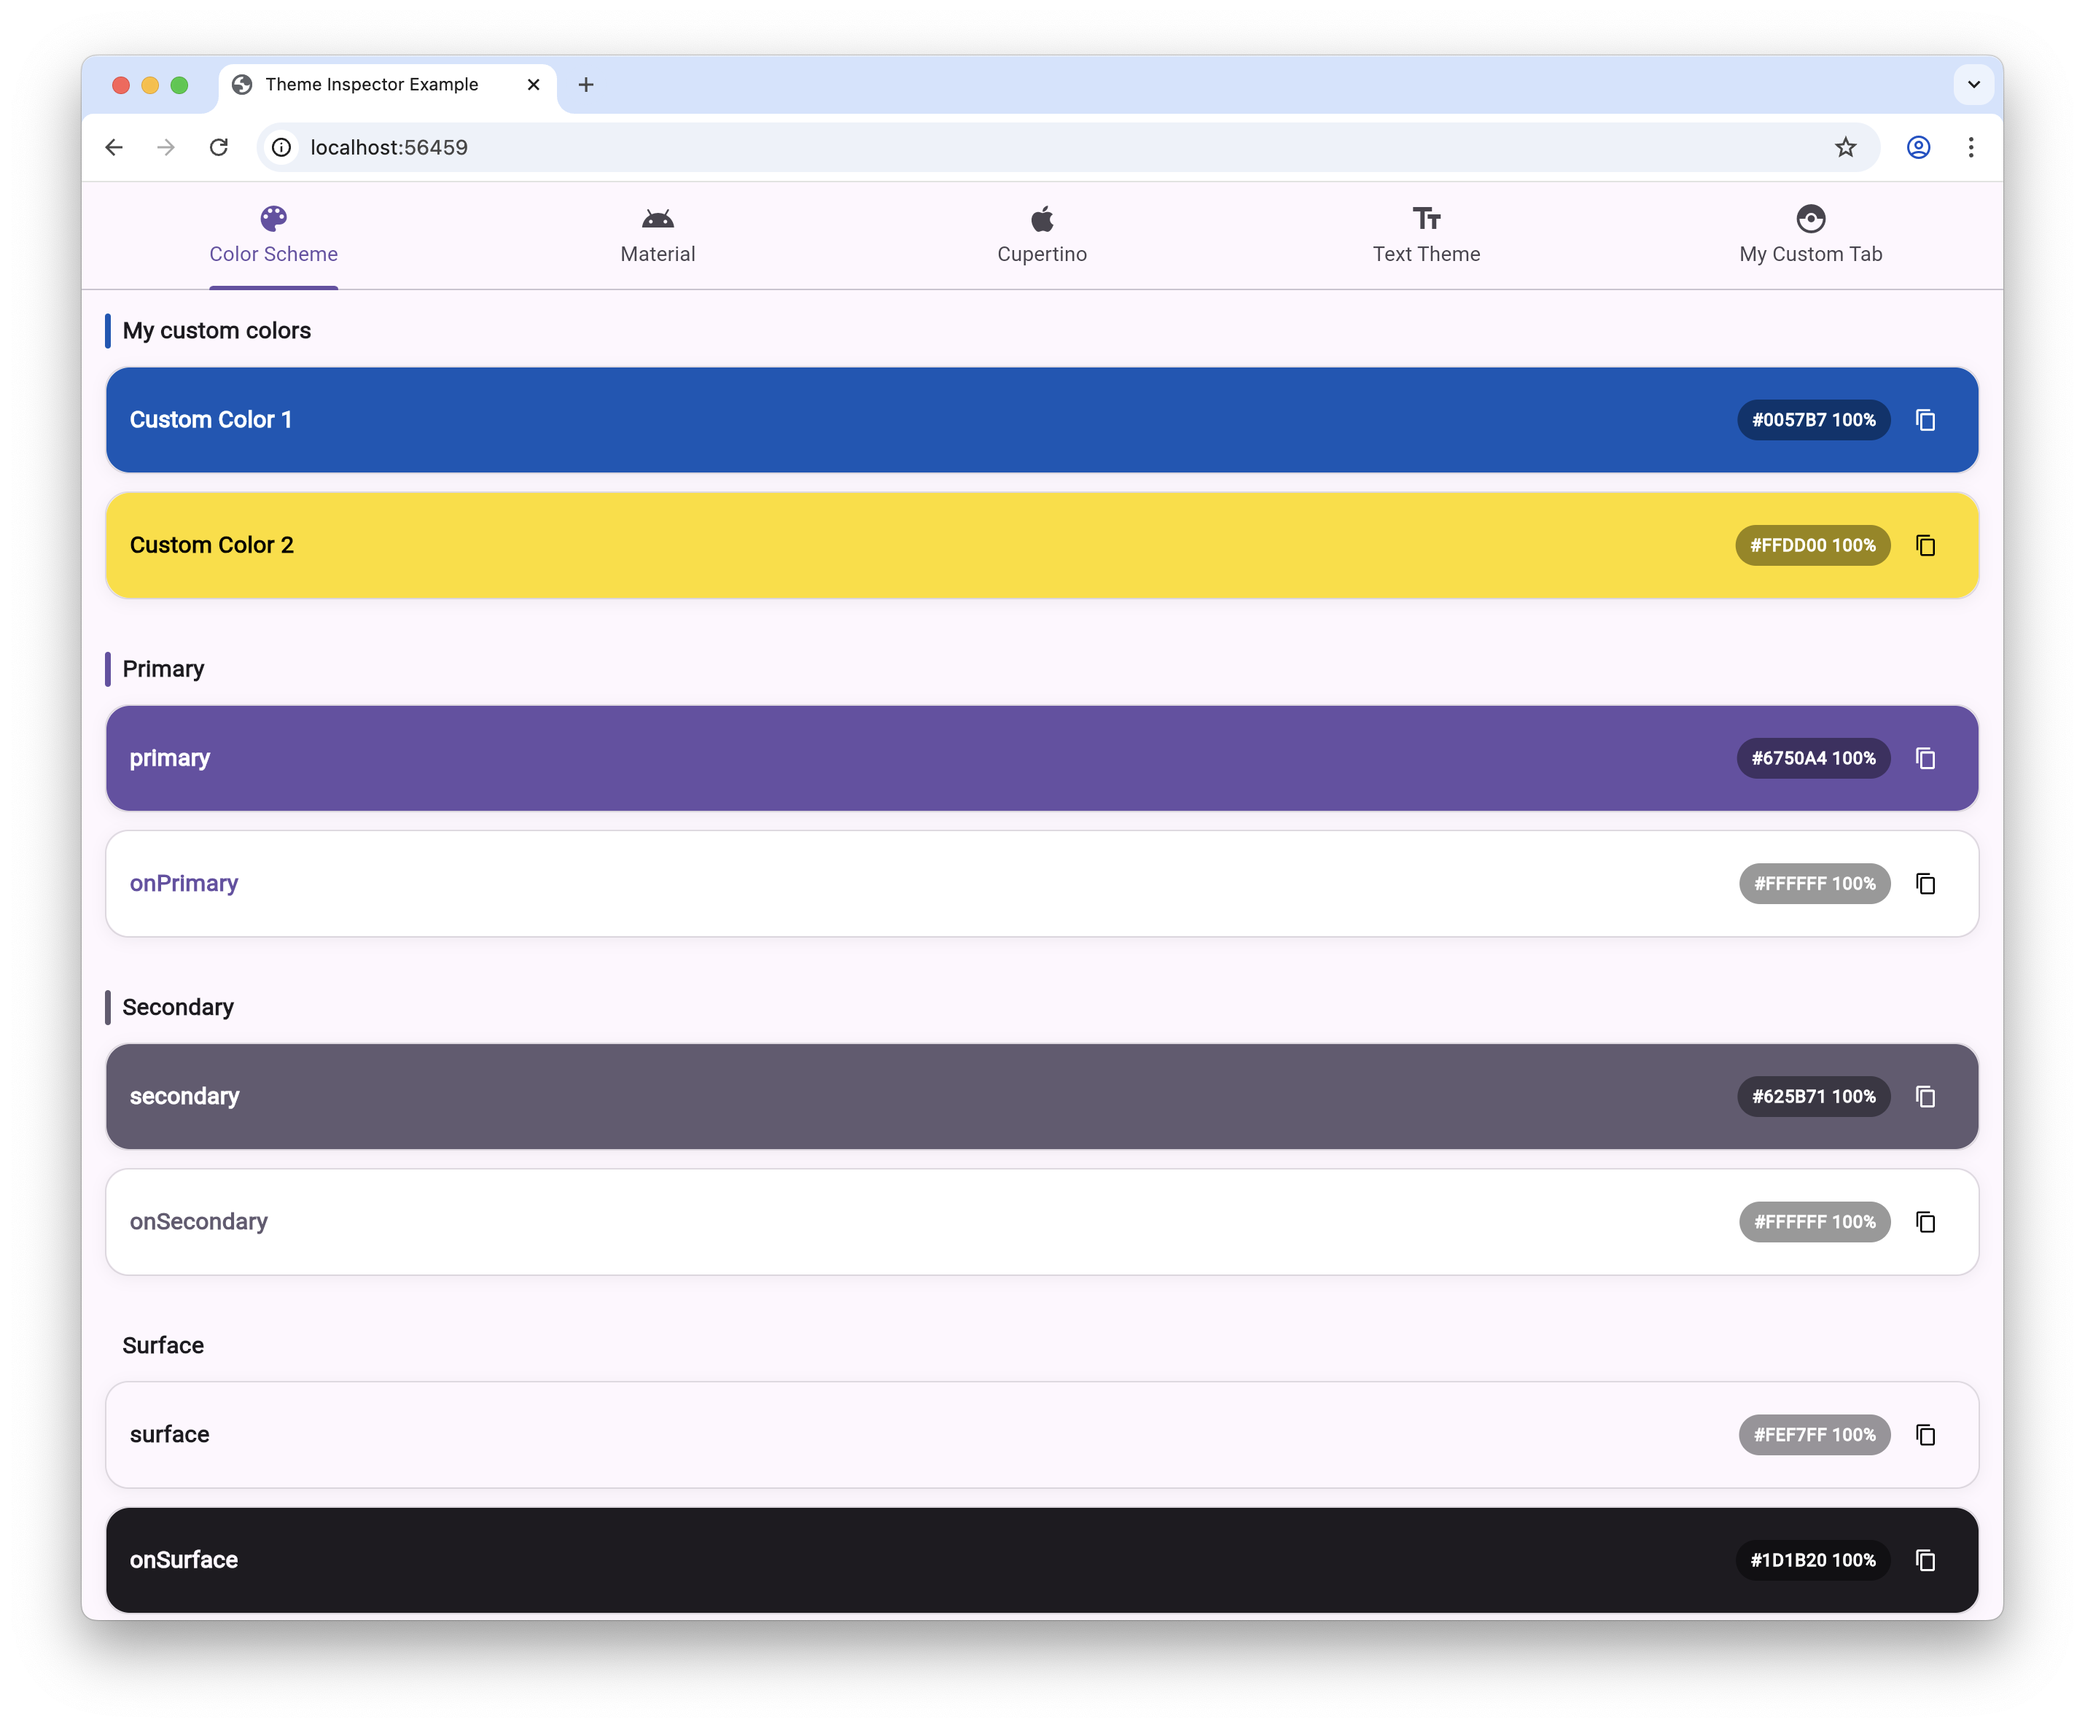
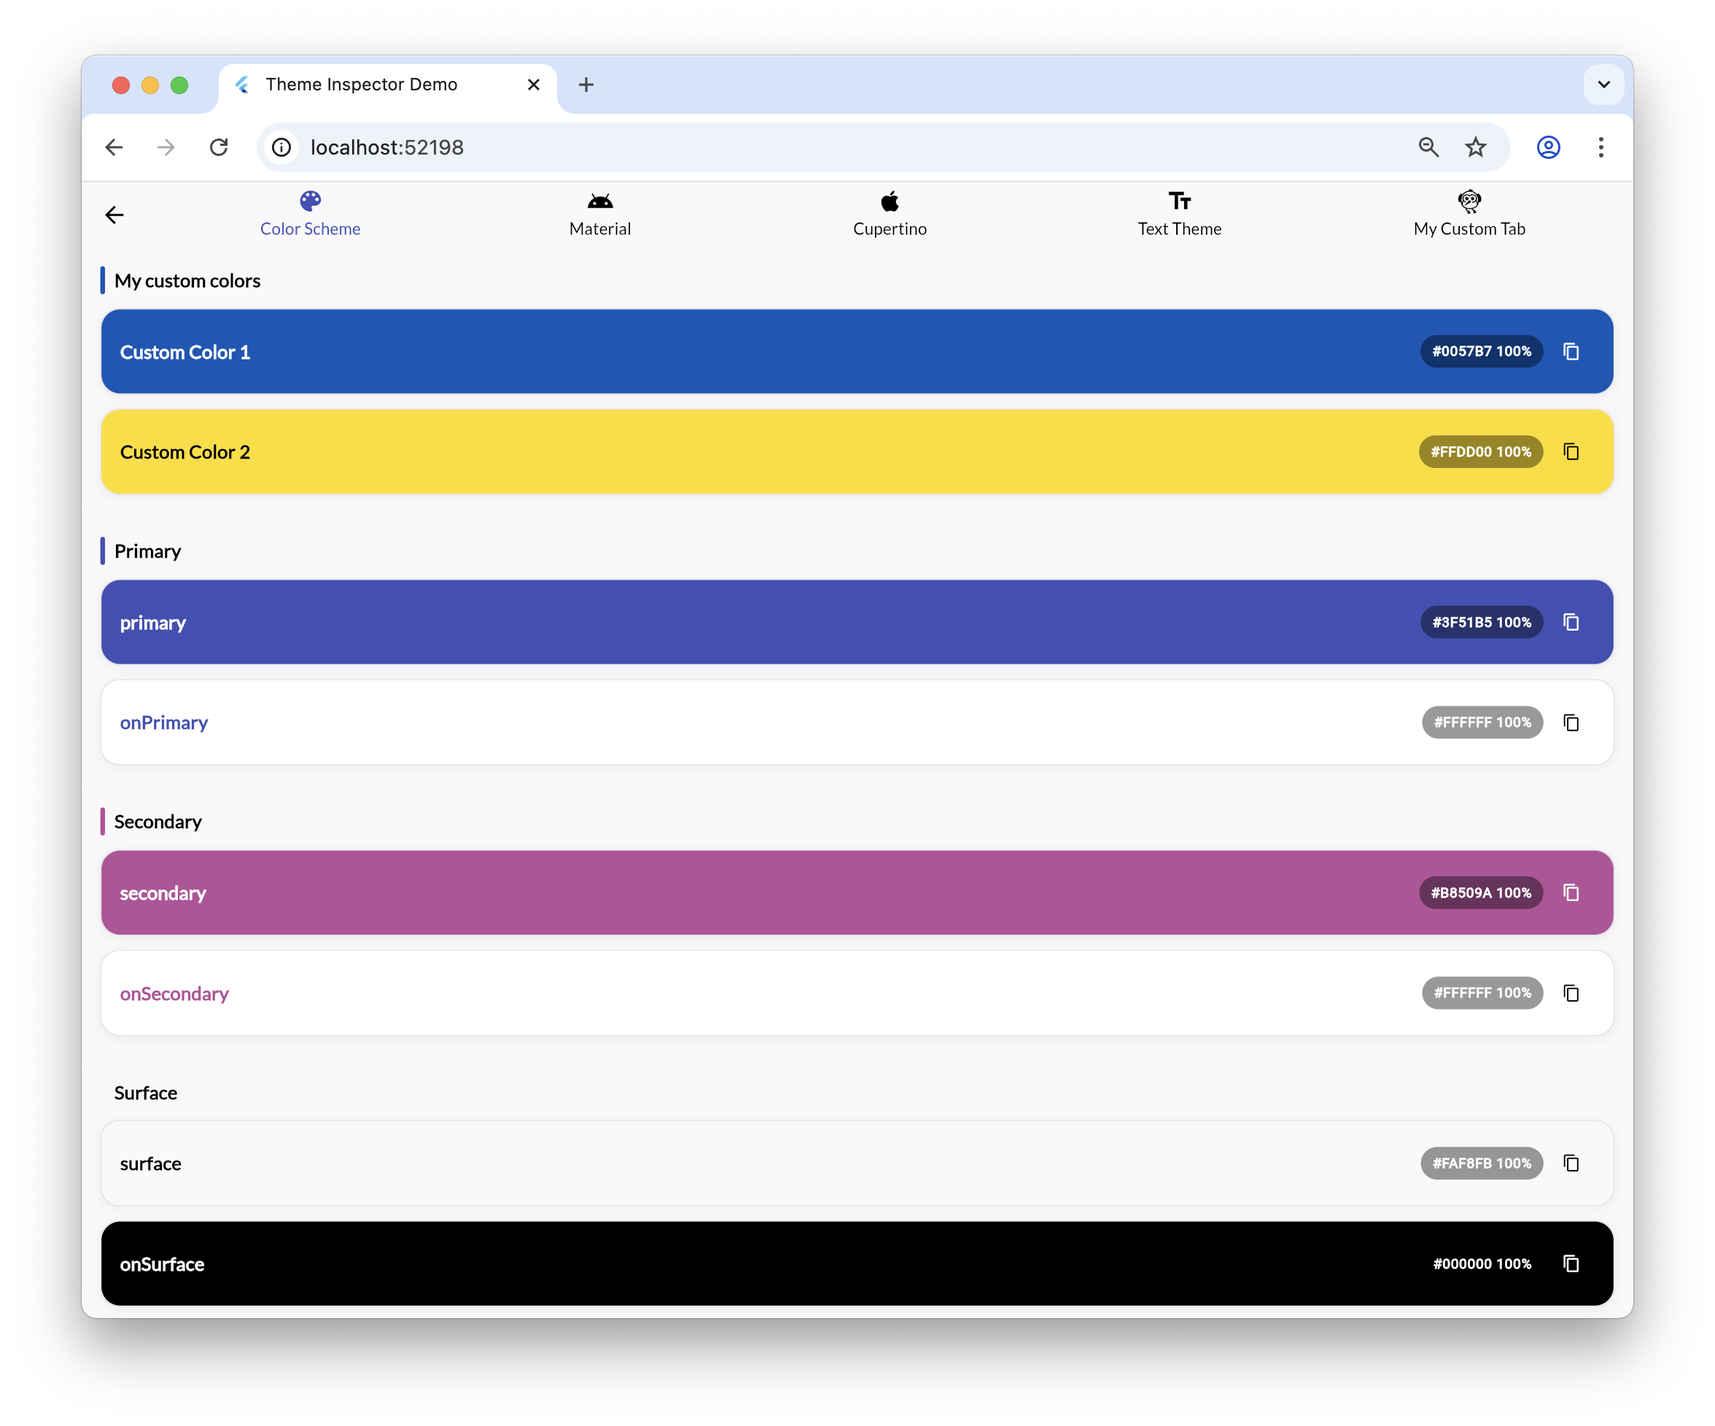
Release version: 1.0.2

Changed region(s): [[0.031, 0.0312, 0.9622, 0.9668]]

diff --git a/lib/src/inspector_page.dart b/lib/src/inspector_page.dart
@@ -112,28 +112,34 @@ class _InspectorPageState extends State<InspectorPage>
 
   @override
   Widget build(BuildContext context) {
-    return Scaffold(
-      body: Column(
-        children: [
-          TabBar(
-            controller: _tabController,
-            tabs: List.generate(
-              _tabs.length,
-              (index) =>
-                  Tab(text: _tabs[index].title, icon: Icon(_tabs[index].icon)),
-            ),
-          ),
-          Expanded(
-            child: TabBarView(
+    return LayoutBuilder(
+      builder: (context, constraints) {
+        final bool isSmallScreen = constraints.maxWidth < 600;
+        return Scaffold(
+          appBar: AppBar(
+            backgroundColor: Colors.transparent,
+            leading: BackButton(),
+            title: TabBar(
               controller: _tabController,
-              children: List.generate(
+              isScrollable: isSmallScreen,
+              tabs: List.generate(
                 _tabs.length,
-                (index) => _tabs[index].child,
+                (index) => Tab(
+                  text: isSmallScreen ? null : _tabs[index].title,
+                  icon: Icon(_tabs[index].icon),
+                ),
               ),
             ),
           ),
-        ],
-      ),
+          body: TabBarView(
+            controller: _tabController,
+            children: List.generate(
+              _tabs.length,
+              (index) => _tabs[index].child,
+            ),
+          ),
+        );
+      },
     );
   }
 }

diff --git a/lib/src/material/material_tab.dart b/lib/src/material/material_tab.dart
@@ -12,7 +12,7 @@ class MaterialTab extends StatelessWidget {
     return Scaffold(
       appBar: AppBar(
         title: const Text('AppBar'),
-        leading: BackButton(),
+        leading: Icon(Icons.favorite_outline),
         actions: [
           Padding(
             padding: const EdgeInsets.only(right: 8.0),
@@ -268,28 +268,20 @@ class _RadioButtonsColumnState extends State<_RadioButtonsColumn> {
 
   @override
   Widget build(BuildContext context) {
-    return _ControlColumn(
-      children: [
-        Radio<int>(
-          value: 0,
-          groupValue: _radioValue,
-          onChanged: (value) {
-            setState(() {
-              _radioValue = value;
-            });
-          },
-        ),
-        Radio<int>(
-          value: 1,
-          groupValue: _radioValue,
-          onChanged: (value) {
-            setState(() {
-              _radioValue = value;
-            });
-          },
-        ),
-        const Radio<int>(value: 2, groupValue: null, onChanged: null),
-      ],
+    return RadioGroup<int>(
+      groupValue: _radioValue,
+      onChanged: (int? value) {
+        setState(() {
+          _radioValue = value;
+        });
+      },
+      child: _ControlColumn(
+        children: [
+          Radio<int>(value: 0),
+          Radio<int>(value: 1),
+          const Radio<int>(value: 2),
+        ],
+      ),
     );
   }
 }

diff --git a/lib/src/cupertino/cupertino_tab.dart b/lib/src/cupertino/cupertino_tab.dart
@@ -15,7 +15,7 @@ class CupertinoTab extends StatelessWidget {
     return CupertinoPageScaffold(
       backgroundColor: CupertinoColors.systemBackground.resolveFrom(context),
       navigationBar: CupertinoNavigationBar(
-        automaticBackgroundVisibility: false,
+        leading: Icon(CupertinoIcons.heart),
         middle: const Text('CupertinoNavigationBar'),
         trailing: Icon(CupertinoIcons.ellipsis),
       ),
@@ -491,7 +491,7 @@ class _BottomSheetShowcase extends _ShowcaseBase {
           onPressed: () {
             showCupertinoSheet(
               context: context,
-              pageBuilder:
+              builder:
                   (context) => CupertinoPageScaffold(
                     child: Center(
                       child: DefaultTextStyle(

diff --git a/example/lib/main.dart b/example/lib/main.dart
@@ -1,8 +1,4 @@
 import 'package:flutter/material.dart';
-import 'package:theme_inspector/src/color_scheme/color_info.dart';
-import 'package:theme_inspector/src/color_scheme/color_section.dart';
-import 'package:theme_inspector/src/shared/section_wrapper.dart';
-import 'package:theme_inspector/src/text_theme/text_style_info.dart';
 import 'package:theme_inspector/theme_inspector.dart';
 
 void main() {

diff --git a/README.md b/README.md
@@ -2,6 +2,10 @@
 
 A Flutter package that provides an interactive inspector for visualizing and debugging your app's themes, including Material and Cupertino widgets, color schemes, and text styles.
 
+<p align="center">
+  <img src="https://raw.githubusercontent.com/evanca/theme_inspector/refs/heads/main/screenshots/demo.gif" alt="Demo" height="420px" />
+</p>
+
 ## Features
 
 ✨ **Visual Theme Inspection** - View all Material and Cupertino widgets with your current theme applied  
@@ -82,7 +86,7 @@ This will open a page with four default tabs:
 
 Display your custom color palette alongside the default ColorScheme:
 
-![Color Scheme Tab](screenshots/web_01_color_scheme.png)
+![Color Scheme Tab](https://raw.githubusercontent.com/evanca/theme_inspector/refs/heads/main/screenshots/web_01_color_scheme.png)
 
 ```dart
 import 'package:theme_inspector/theme_inspector.dart';
@@ -113,7 +117,7 @@ ThemeInspector.open(
 
 Show your custom typography alongside the default TextTheme:
 
-![Text Theme Tab](screenshots/web_02_text_theme.png)
+![Text Theme Tab](https://raw.githubusercontent.com/evanca/theme_inspector/refs/heads/main/screenshots/web_02_text_theme.png)
 
 ```dart
 ThemeInspector.open(
@@ -143,7 +147,7 @@ ThemeInspector.open(
 
 Display your custom Material widgets to see how they look with the current theme:
 
-![Material Widgets Tab](screenshots/web_03_material_widgets.png)
+![Material Widgets Tab](https://raw.githubusercontent.com/evanca/theme_inspector/refs/heads/main/screenshots/web_03_material_widgets.png)
 
 ```dart
 final gradientButton = Container(
@@ -182,7 +186,7 @@ ThemeInspector.open(
 
 Display your custom Cupertino widgets:
 
-![Cupertino Widgets Tab](screenshots/web_04_cupertino_widgets.png)
+![Cupertino Widgets Tab](https://raw.githubusercontent.com/evanca/theme_inspector/refs/heads/main/screenshots/web_04_cupertino_widgets.png)
 
 ```dart
 ThemeInspector.open(
@@ -200,7 +204,7 @@ ThemeInspector.open(
 
 Add completely custom tabs with your own content:
 
-![Custom Tabs Example](screenshots/web_05_custom_tabs.png)
+![Custom Tabs Example](https://raw.githubusercontent.com/evanca/theme_inspector/refs/heads/main/screenshots/web_05_custom_tabs.png)
 
 ```dart
 ThemeInspector.open(
@@ -233,118 +237,6 @@ ThemeInspector.open(
   colorSchemeEnabled: true,    // Keep Color Scheme tab
   textThemeEnabled: true,      // Keep Text Theme tab
 );
-```
-
-### Complete Example
-
-Here's a comprehensive example using all features:
-
-```dart
-import 'package:flutter/material.dart';
-import 'package:theme_inspector/theme_inspector.dart';
-
-class MyHomePage extends StatelessWidget {
-  const MyHomePage({super.key});
-
-  @override
-  Widget build(BuildContext context) {
-    // Create a reusable custom widget
-    final gradientButton = Container(
-      height: 44.0,
-      decoration: BoxDecoration(
-        gradient: const LinearGradient(
-          colors: [Color(0xFF0057B7), Color(0xFFFFDD00)],
-        ),
-        borderRadius: BorderRadius.circular(8.0),
-      ),
-      child: ElevatedButton(
-        onPressed: () {},
-        style: ElevatedButton.styleFrom(
-          backgroundColor: Colors.transparent,
-          shadowColor: Colors.transparent,
-        ),
-        child: const Text(
-          'My Custom Button',
-          style: TextStyle(color: Colors.white),
-        ),
-      ),
-    );
-
-    return Scaffold(
-      appBar: AppBar(
-        title: const Text('Theme Inspector Example'),
-      ),
-      body: Center(
-        child: ElevatedButton(
-          onPressed: () => ThemeInspector.open(
-            context,
-            // Add custom colors
-            additionalColors: [
-              ColorSection(
-                title: "Brand Colors",
-                colors: [
-                  ColorInfo(
-                    name: 'brandPrimary',
-                    color: const Color(0xFF0057B7),
-                    textColor: Colors.white,
-                  ),
-                  ColorInfo(
-                    name: 'brandAccent',
-                    color: const Color(0xFFFFDD00),
-                    textColor: Colors.black,
-                  ),
-                ],
-              ),
-            ],
-            // Add custom text styles
-            additionalTextStyles: [
-              TextStyleInfo(
-                'Custom Heading',
-                const TextStyle(
-                  fontSize: 24,
-                  fontWeight: FontWeight.bold,
-                  color: Color(0xFF0057B7),
-                ),
-              ),
-            ],
-            // Add custom Material widgets
-            additionalMaterialWidgets: [
-              SectionWrapper(
-                title: 'My Custom Material Widget',
-                child: gradientButton,
-              ),
-            ],
-            // Add custom Cupertino widgets
-            additionalCupertinoWidgets: [
-              SectionWrapper(
-                title: 'My Custom Cupertino Widget',
-                child: gradientButton,
-              ),
-            ],
-            // Add custom tabs
-            customTabs: [
-              InspectorTab(
-                title: 'About',
-                icon: Icons.info_outline,
-                child: const Center(
-                  child: Padding(
-                    padding: EdgeInsets.all(24.0),
-                    child: Text(
-                      'This is my custom theme inspector configuration!',
-                      textAlign: TextAlign.center,
-                      style: TextStyle(fontSize: 18),
-                    ),
-                  ),
-                ),
-              ),
-            ],
-          ),
-          child: const Text('Open Theme Inspector'),
-        ),
-      ),
-    );
-  }
-}
 ```
 
 ## API Reference

diff --git a/CHANGELOG.md b/CHANGELOG.md
@@ -1,3 +1,13 @@
+## 1.0.2
+
+- Enhanced tab bar design for improved navigation.
+- Migrated from the old Radio API to the new RadioGroup widget.
+- Updated examples and documentation.
+
+## 1.0.1
+
+- Update README image URLs to absolute paths.
+
 ## 1.0.0
 
 - Initial version.
